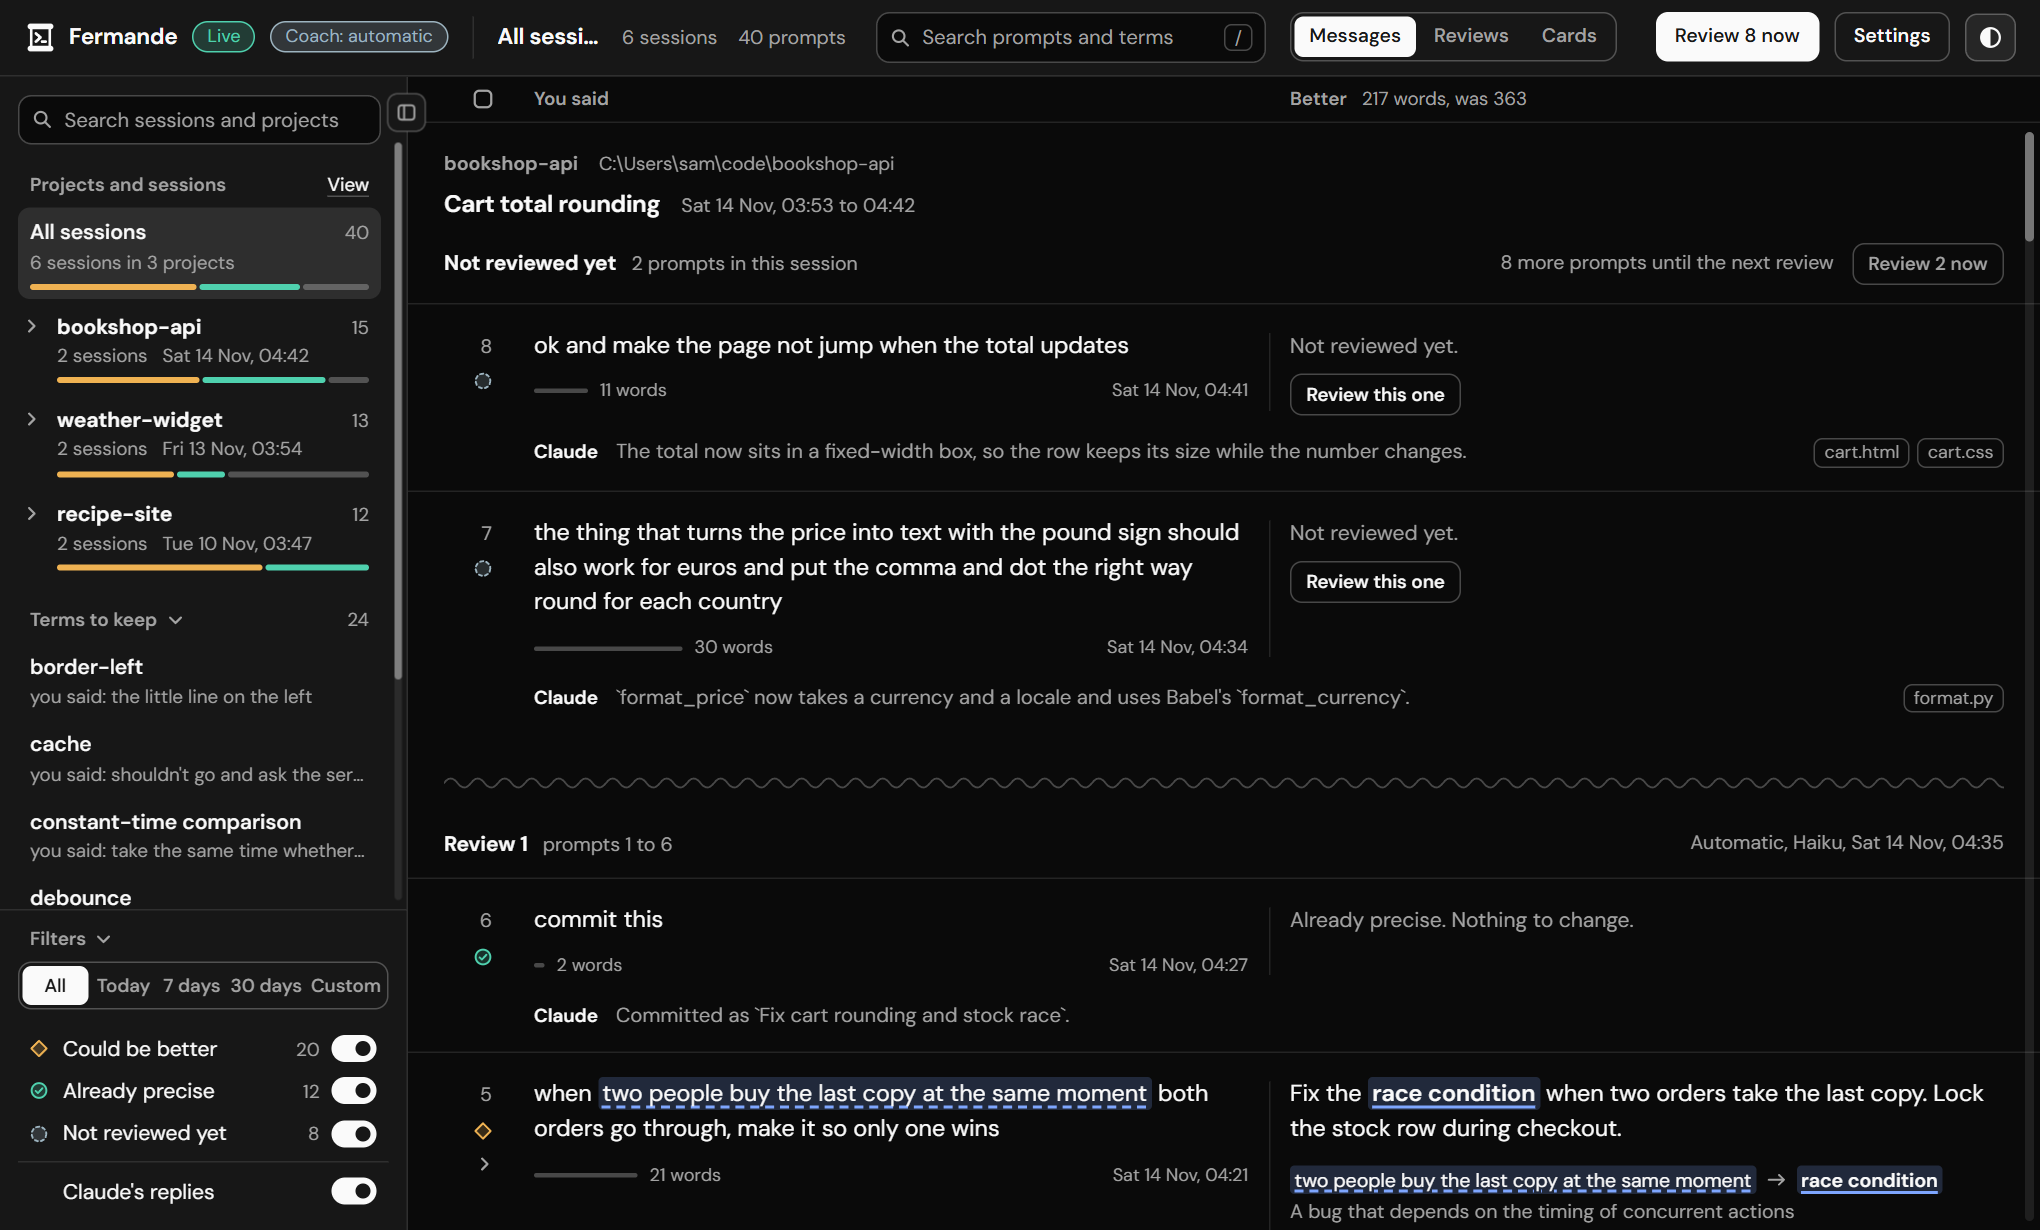
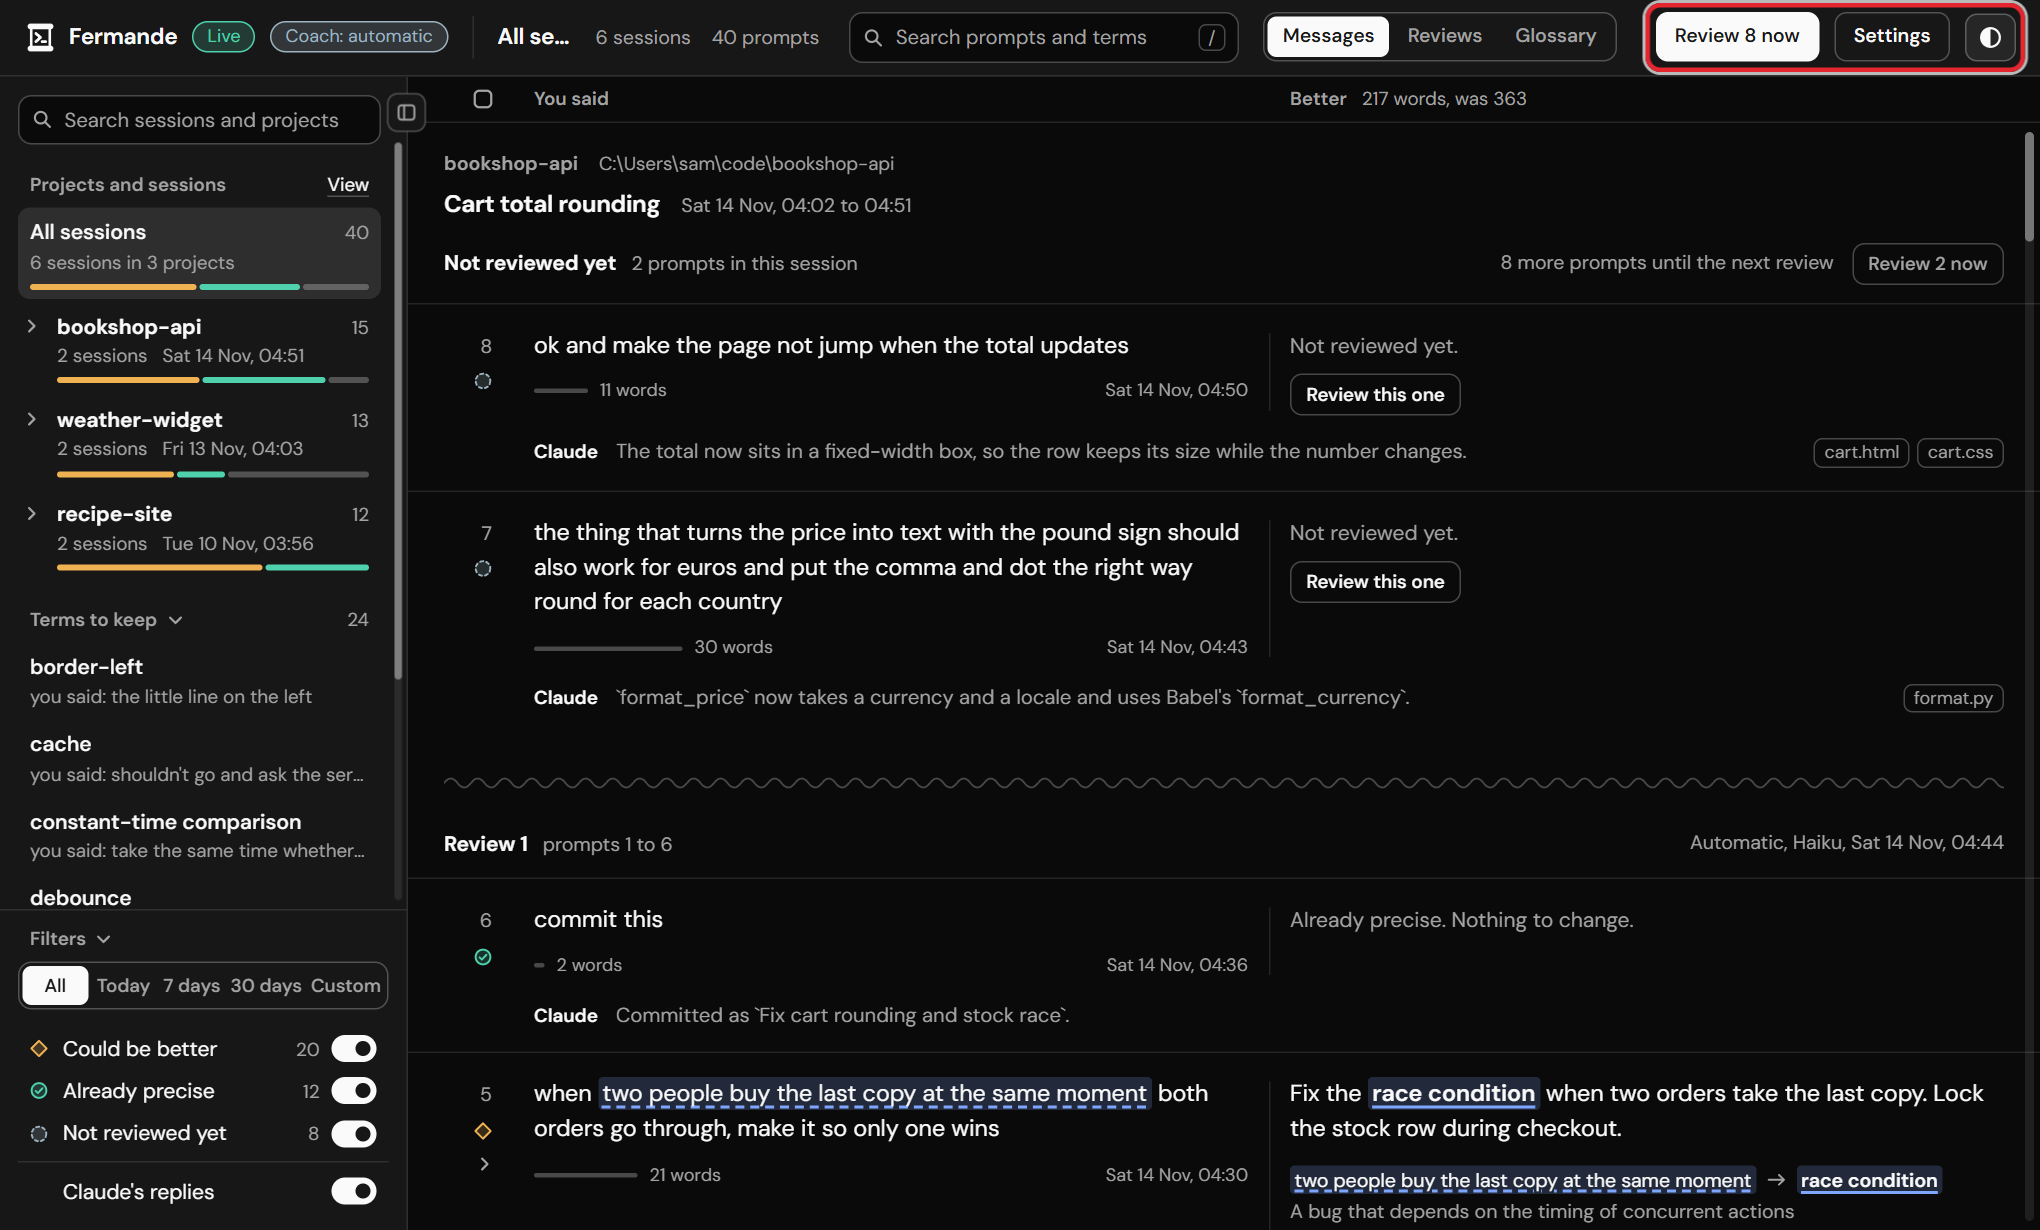
Rename the Cards view to Glossary and pair the screenshots
The view switch, the empty states and both READMEs now say Glossary.
Each part of the page in the README has a full screenshot with a red
box round the part and a close-up of that part. The screenshots show
sample data.

diff --git a/fermande/app/ui/index.html b/fermande/app/ui/index.html
@@ -529,7 +529,7 @@ const ARROW='<svg class="arrow" aria-hidden="true"><use href="#glyph-arrow"/></s
 const CHEVRON='<svg class="chevron" aria-hidden="true"><use href="#glyph-chevron"/></svg>';
 const DIVIDER='<svg class="group-divider" aria-hidden="true"><rect width="100%" height="100%" fill="url(#squiggle)"/></svg>';
 const KEY='fermande.page.v3', PAGE=50, OVER=700;
-const VIEWS=[['messages','Messages'],['reviews','Reviews'],['cards','Cards']];
+const VIEWS=[['messages','Messages'],['reviews','Reviews'],['cards','Glossary']];
 const CARD_COLS=[['term','Term'],['gloss','Definition'],['said','You said'],['project','Project'],['last_at','Last used'],['times','Times']];
 const NOTE_KIND={'system-reminder':'System reminder','task-notification':'Task notification'};
 const UNUSED='<span class="pair-flag" title="The reviewer named this term but did not use it in the better prompt. A plain text comparison found this, not a model.">found, not used</span>';
@@ -625,7 +625,7 @@ async function loadPage(p,g,force){
   }catch(e){ if(g===gen){ online=false; renderChrome(); } }
   finally{ if(inflight.get(p)===pr) inflight.delete(p); }
 }
-async function loadCards(g){      // the cards view: one row for each term
+async function loadCards(g){      // the Glossary view: one row for each term
   try{ const d=await api('/api/cards?'+qs({sort:state.cardSort.key,dir:state.cardSort.dir,group:'',desc:'',states:'',term:''})); if(g!==gen) return;
     cards=d; online=true; }
   catch(e){ if(g!==gen) return; cards={total:0,items:[],error:e.message}; }
@@ -966,8 +966,8 @@ function renderCards(){
   const box=$('#cards');
   if(!online){ box.innerHTML=OFFLINE(); return; }
   if(!cards){ box.innerHTML='<div class="empty-state"><p class="muted-text">Loading…</p></div>'; return; }
-  if(cards.error){ box.innerHTML='<div class="empty-state"><p><b>The cards could not be loaded.</b> '+esc(cards.error)+'</p></div>'; return; }
-  if(!cards.items.length){ box.innerHTML='<div class="empty-state"><p><b>'+(state.q?'No term matches “'+esc(state.q)+'”.':'No terms yet.')+'</b> '+(state.q?'Clear the search to see them all.':'A card appears for each term that a review finds. Review some prompts first.')+'</p></div>'; return; }
+  if(cards.error){ box.innerHTML='<div class="empty-state"><p><b>The glossary could not be loaded.</b> '+esc(cards.error)+'</p></div>'; return; }
+  if(!cards.items.length){ box.innerHTML='<div class="empty-state"><p><b>'+(state.q?'No term matches “'+esc(state.q)+'”.':'No terms yet.')+'</b> '+(state.q?'Clear the search to see them all.':'The glossary gets a row for each term that a review finds. Review some prompts first.')+'</p></div>'; return; }
   box.innerHTML=cards.items.map(c=>{ const key=c.term.toLowerCase(), miss=c.times-c.used, where=c.projects||[];
     return '<div class="card-row">'+
       '<div class="card-cell card-term"><button class="term-button" data-act="term-prompts" data-t="'+esc(key)+'" data-fid="card-'+esc(key)+'" title="Show the prompts that led to this term"><span class="term">'+hi(c.term)+'</span></button>'+

diff --git a/README.md b/README.md
@@ -27,17 +27,19 @@ The reviewer marks each prompt as "Could be better" or "Already precise". For a 
 
 Run `fermande open` in a terminal or type `/fermande` in a Claude Code session. The page opens in your browser. It answers on `127.0.0.1` only, which means that only your own computer can reach it.
 
-### The default view
-
 The page opens on Messages with every session in the list, as in the screenshot above. The newest prompt is at the top.
 
 The sidebar on the left lists your projects and sessions, the terms to keep and the filters. The top bar holds the search box, the three views, "Review now", Settings and the theme button.
 
 A prompt that waits for a review says "Not reviewed yet". "Review now" sends every waiting prompt in the list to the reviewer.
 
+Each part below has two pictures. The first shows the whole page with a red box round the part. The second shows that part close up.
+
 ### Messages
 
-![One session in the Messages view. One prompt is opened to show its details](docs/screenshots/session.png)
+![One session in the Messages view. A red box marks one prompt that is opened to show its details](docs/screenshots/session.png)
+
+![The marked prompt close up](docs/screenshots/session-crop.png)
 
 Your prompt is on the left and the better prompt is on the right. A lay phrase has a dashed underline. Its term has a solid underline in the same colour. The definition of the term is under the pair. Claude's reply and the changed files are below.
 
@@ -47,45 +49,69 @@ Click a project or a session in the sidebar to see only its prompts. "Terms to k
 
 ### Reviews
 
-![The Reviews view, a table of the same prompts](docs/screenshots/reviews.png)
+![The Reviews view. A red box marks the column names and the first two prompts](docs/screenshots/reviews.png)
+
+![The column names and the first two prompts close up](docs/screenshots/reviews-crop.png)
 
 Reviews shows the same prompts as a table. The columns are You said, Meant, Better and Words. Words gives the length of your prompt and the length of the better one.
 
-### Cards
+### Glossary
 
-![The Cards view, one row for each term](docs/screenshots/cards.png)
+![The Glossary view. A red box marks the column names and the first four terms](docs/screenshots/glossary.png)
 
-Cards has one row for each term. A row gives the term, its definition, what you said instead, the project, when you last used it and how often. Click a column name to sort by it. Click a term to see the prompts that it came from.
+![The column names and the first four terms close up](docs/screenshots/glossary-crop.png)
+
+Glossary has one row for each term. A row gives the term, its definition, what you said instead, the project, when you last used it and how often. Click a column name to sort by it. Click a term to see the prompts that it came from.
 
 ### Filters
 
-![The filters with a custom period open and one switch turned off](docs/screenshots/filters.png)
+![The whole page. A red box marks the filters at the bottom of the sidebar](docs/screenshots/filters.png)
+
+<p align="center">
+  <img src="docs/screenshots/filters-crop.png" alt="The filters close up. A custom period is open and one switch is turned off" width="269">
+</p>
 
 The filters are at the bottom of the sidebar. Choose a period (All, Today, 7 days or 30 days) or choose Custom and set your own From and To.
 
 Three switches show or hide the prompts that could be better, the ones that are already precise and the ones that are not reviewed yet. A fourth switch hides Claude's replies.
 
-### The sidebar
+### The View choices
+
+![The whole page. A red box marks the View choices at the top of the sidebar](docs/screenshots/view.png)
 
 <p align="center">
-  <img src="docs/screenshots/view-menu.png" alt="The View choices at the top of the sidebar" width="270">
+  <img src="docs/screenshots/view-crop.png" alt="The View choices close up" width="254">
 </p>
 
 "View" opens the choices for the sidebar. Arrange the entries by project or as one list. Order them by latest prompt, start, name or size. Show the prompts of a session oldest first or newest first. Choose whether an entry shows its date, its prompt count and its state bar.
 
-The button at the top edge of the sidebar folds it to a narrow rail. The rail keeps two letters for each project and the three filter signs.
+### The folded sidebar
 
-![The sidebar folded to a narrow rail](docs/screenshots/rail.png)
+![The whole page with the sidebar folded. A red box marks the narrow rail](docs/screenshots/rail.png)
+
+<p align="center">
+  <img src="docs/screenshots/rail-crop.png" alt="The narrow rail close up" width="54">
+</p>
+
+The button at the top edge of the sidebar folds it to a narrow rail. The rail keeps two letters for each project and the three filter signs. The same button opens the sidebar again.
 
 ### Pick the prompts to review
 
-![Three prompts selected. The Review selected button is in the top right](docs/screenshots/selection.png)
+![Three prompts selected. A red box marks the Review selected button in the top right](docs/screenshots/selection.png)
+
+<p align="center">
+  <img src="docs/screenshots/selection-crop.png" alt="The count of selected prompts, the Review selected button and Clear close up" width="319">
+</p>
 
 Click a prompt's number to select it. "Review selected" then reviews only the prompts that you picked. A prompt that was reviewed before is reviewed again in place.
 
 ### Settings
 
-![The Settings panel](docs/screenshots/settings.png)
+![The whole page. A red box marks the Settings panel on the right](docs/screenshots/settings.png)
+
+<p align="center">
+  <img src="docs/screenshots/settings-crop.png" alt="The Settings panel close up" width="408">
+</p>
 
 | Setting | What it does |
 |---|---|
@@ -98,9 +124,13 @@ Click a prompt's number to select it. "Review selected" then reviews only the pr
 
 ### Dark theme
 
-![The page in the dark theme](docs/screenshots/dark.png)
+![The page in the dark theme. A red box marks the buttons at the right end of the top bar](docs/screenshots/dark.png)
 
-The button at the right of the top bar switches between the light theme and the dark theme.
+<p align="center">
+  <img src="docs/screenshots/dark-crop.png" alt="The Review now button, the Settings button and the theme button close up" width="253">
+</p>
+
+The last button in the top bar switches between the light theme and the dark theme.
 
 ## Install
 

diff --git a/fermande/README.md b/fermande/README.md
@@ -102,7 +102,7 @@ fermande remove [--purge]  uninstall; --purge also deletes the log
 ### On the page
 
 - **Top bar:** what the list shows (everything, one project, or one session with its project in front), the prompt search, the three views, "Review now", Settings and the theme. The chip next to "Live" shows the coach's mode; click it to change the mode.
-- **Search prompts and terms** (top bar, shortcut `/`) narrows the prompts, and in the Cards view the terms. It looks in what you said, the better prompt, Claude's reply and the terms.
+- **Search prompts and terms** (top bar, shortcut `/`) narrows the prompts, and in the Glossary view the terms. It looks in what you said, the better prompt, Claude's reply and the terms.
 - **Sidebar, projects first:** each project is the folder that Claude Code ran in. Click a project to see only its prompts and to open its sessions. The one with the latest prompt comes first.
 - **The round button on the sidebar's edge** folds the sidebar to a narrow rail: two letters for each project and the three filter signs. It does not hide the sidebar. The same button opens it again.
 - **Search sessions and projects** (top of the sidebar) narrows the sidebar. Type a project name and only that project and its sessions stay. It never changes the list of prompts.
@@ -110,7 +110,7 @@ fermande remove [--purge]  uninstall; --purge also deletes the log
 - **Filters** (bottom of the sidebar, always in reach): a period (All, Today, 7 days, 30 days, or your own From and To) and switches for "Could be better", "Already precise" and "Not reviewed yet".
 - **Messages:** your prompt on the left, the better prompt on the right. The lay phrase has a dashed underline and the term a solid one, in the same colour. Under each pair is the term's definition. Claude's reply and the changed files sit underneath.
 - **Reviews:** the same prompts as a table: you said, meant, better, words. The arrow under a prompt's number opens a long prompt in full and shows how the coach knew.
-- **Cards:** one row for each term: the term, its definition, what you said instead, the project, when it was last used and how often. Click a column name to sort by it, and again to turn the order round. Click a term to see the prompts behind it. The cards follow the project or session that you chose, the period and the search.
+- **Glossary:** one row for each term: the term, its definition, what you said instead, the project, when it was last used and how often. Click a column name to sort by it, and again to turn the order round. Click a term to see the prompts behind it. The glossary follows the project or session that you chose, the period and the search.
 - **"found, not used":** the reviewer is told to use every term it names inside the better prompt. After each review, Fermande compares the term with the better prompt as plain text, with no model, and marks a pair whose term is missing.
 - **System reminders:** an app can put its own text in front of what you typed, for example a note about other sessions. Fermande folds that text into a yellow block above your prompt, leaves it out of the word count, and does not send it to the reviewer. A reminder in the middle of your text stays where it is.
 - **Review now:** reviews everything that waits in the current view, the latest 300 at most.
